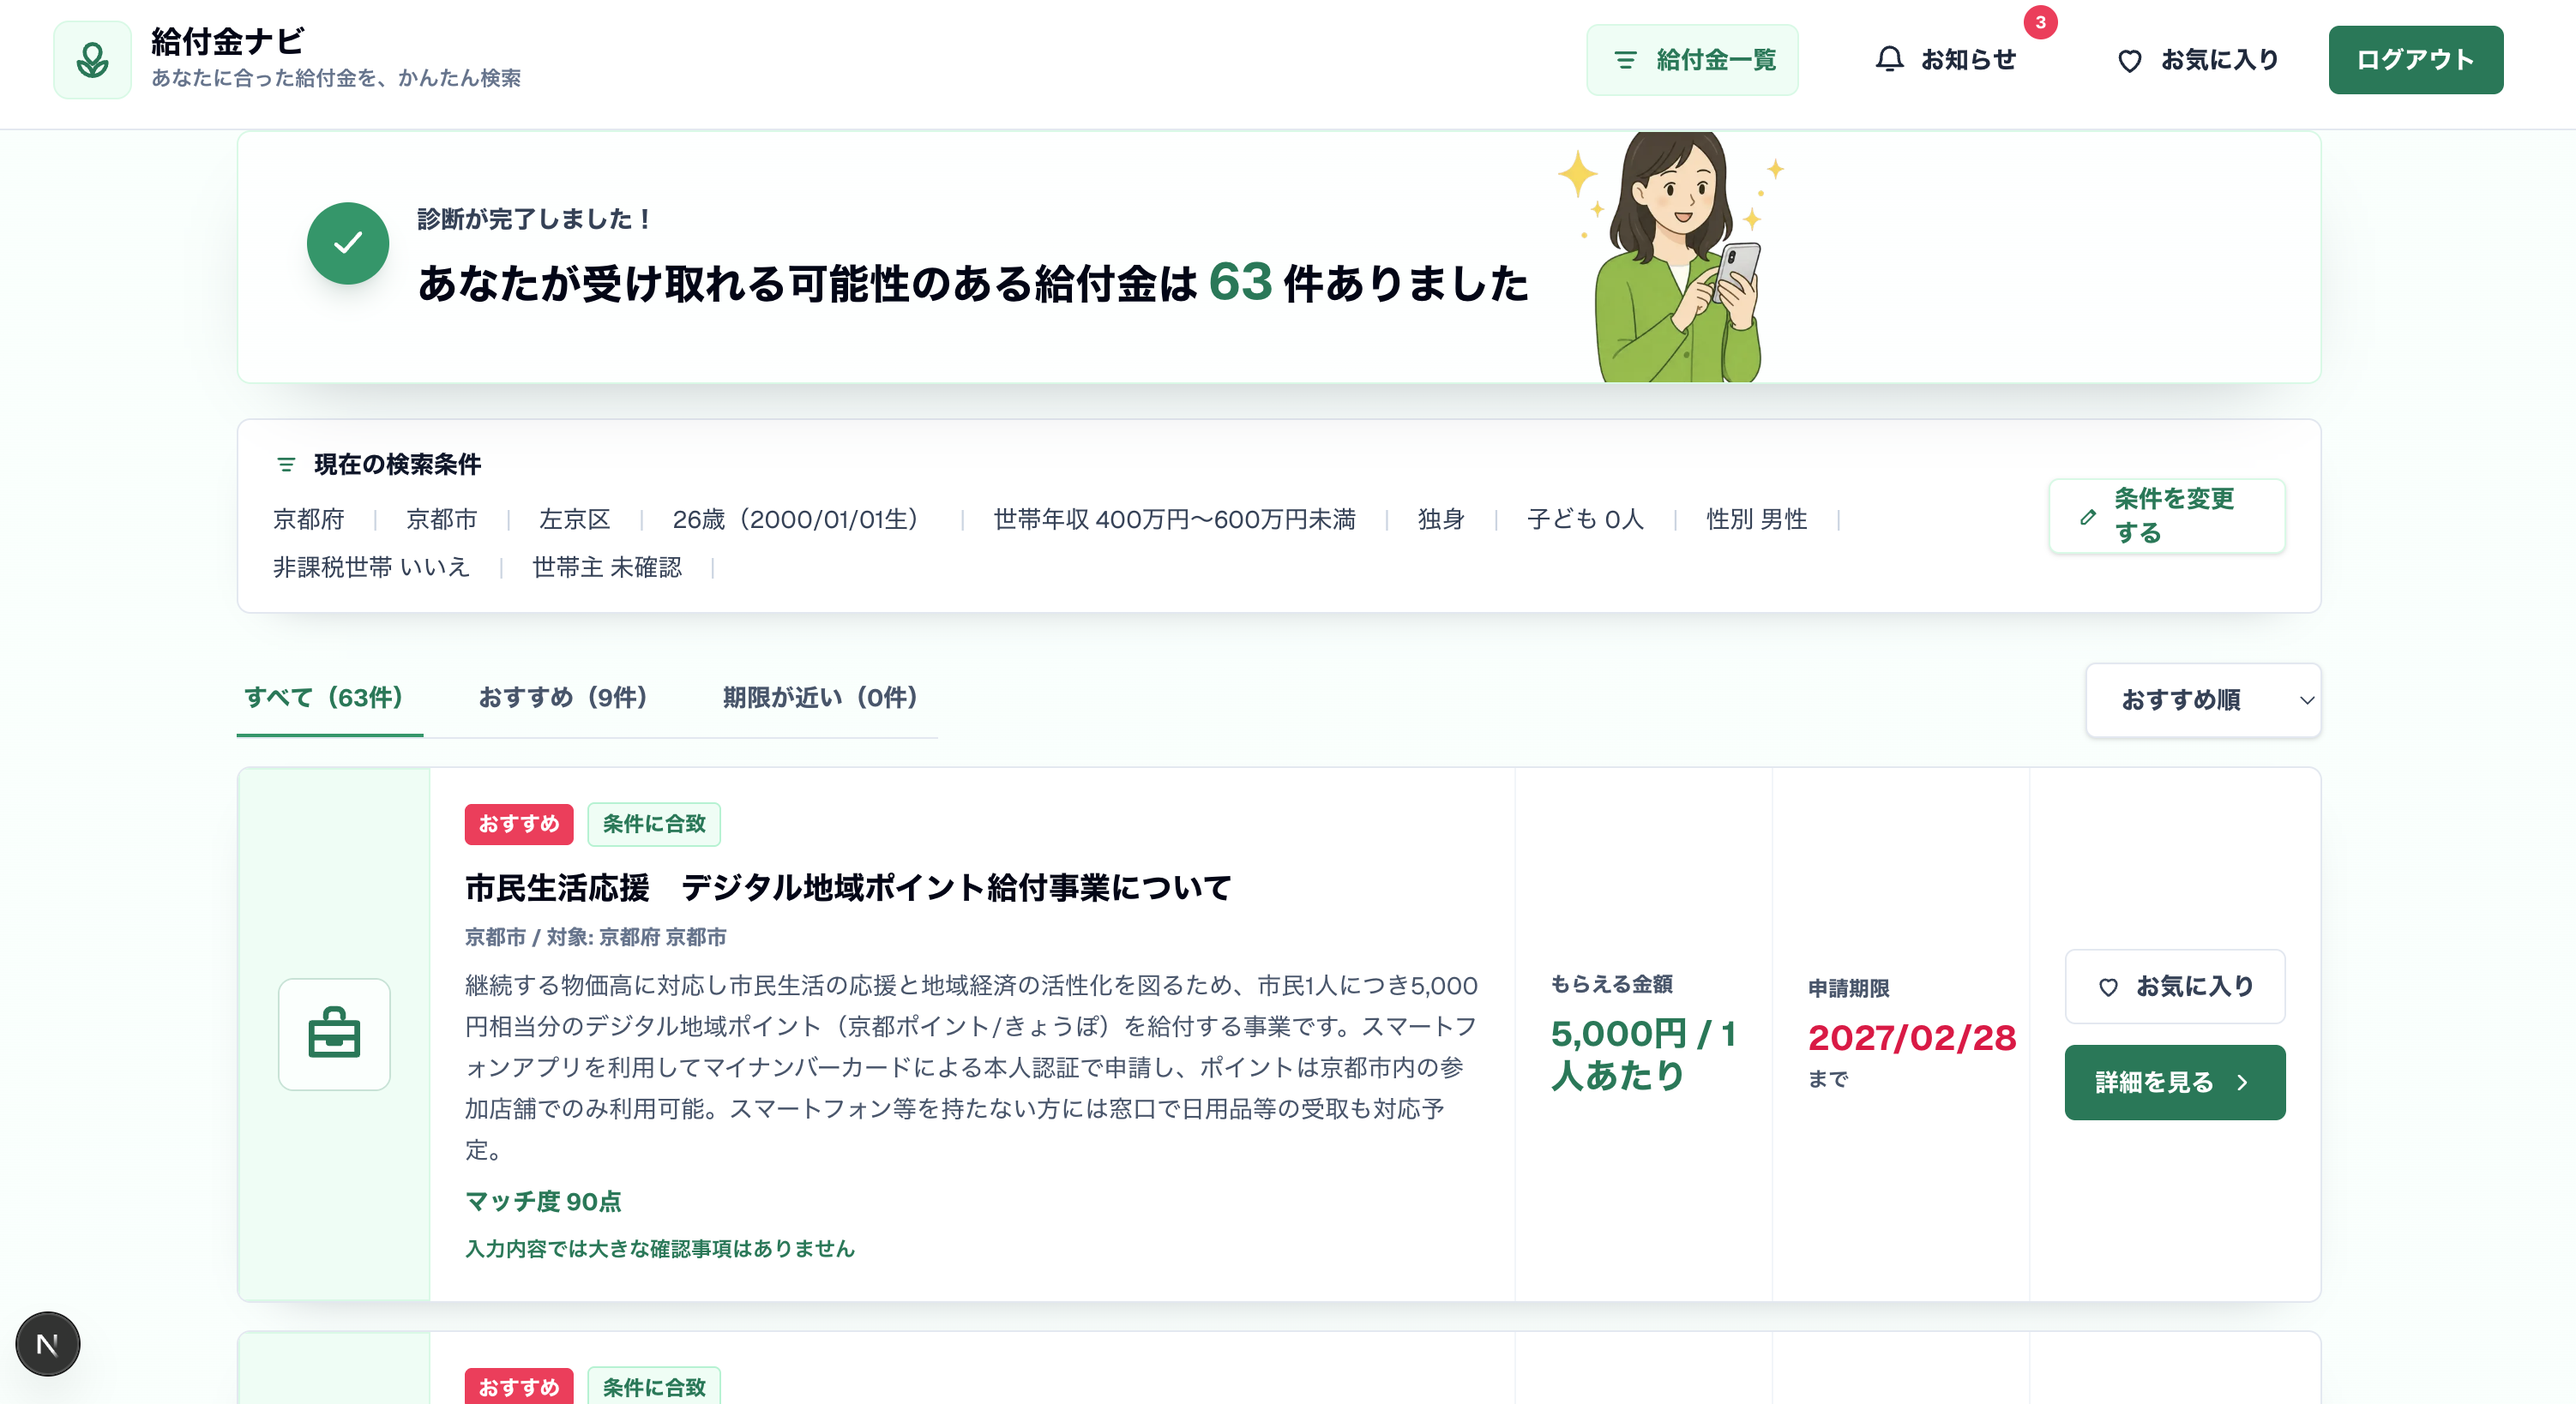
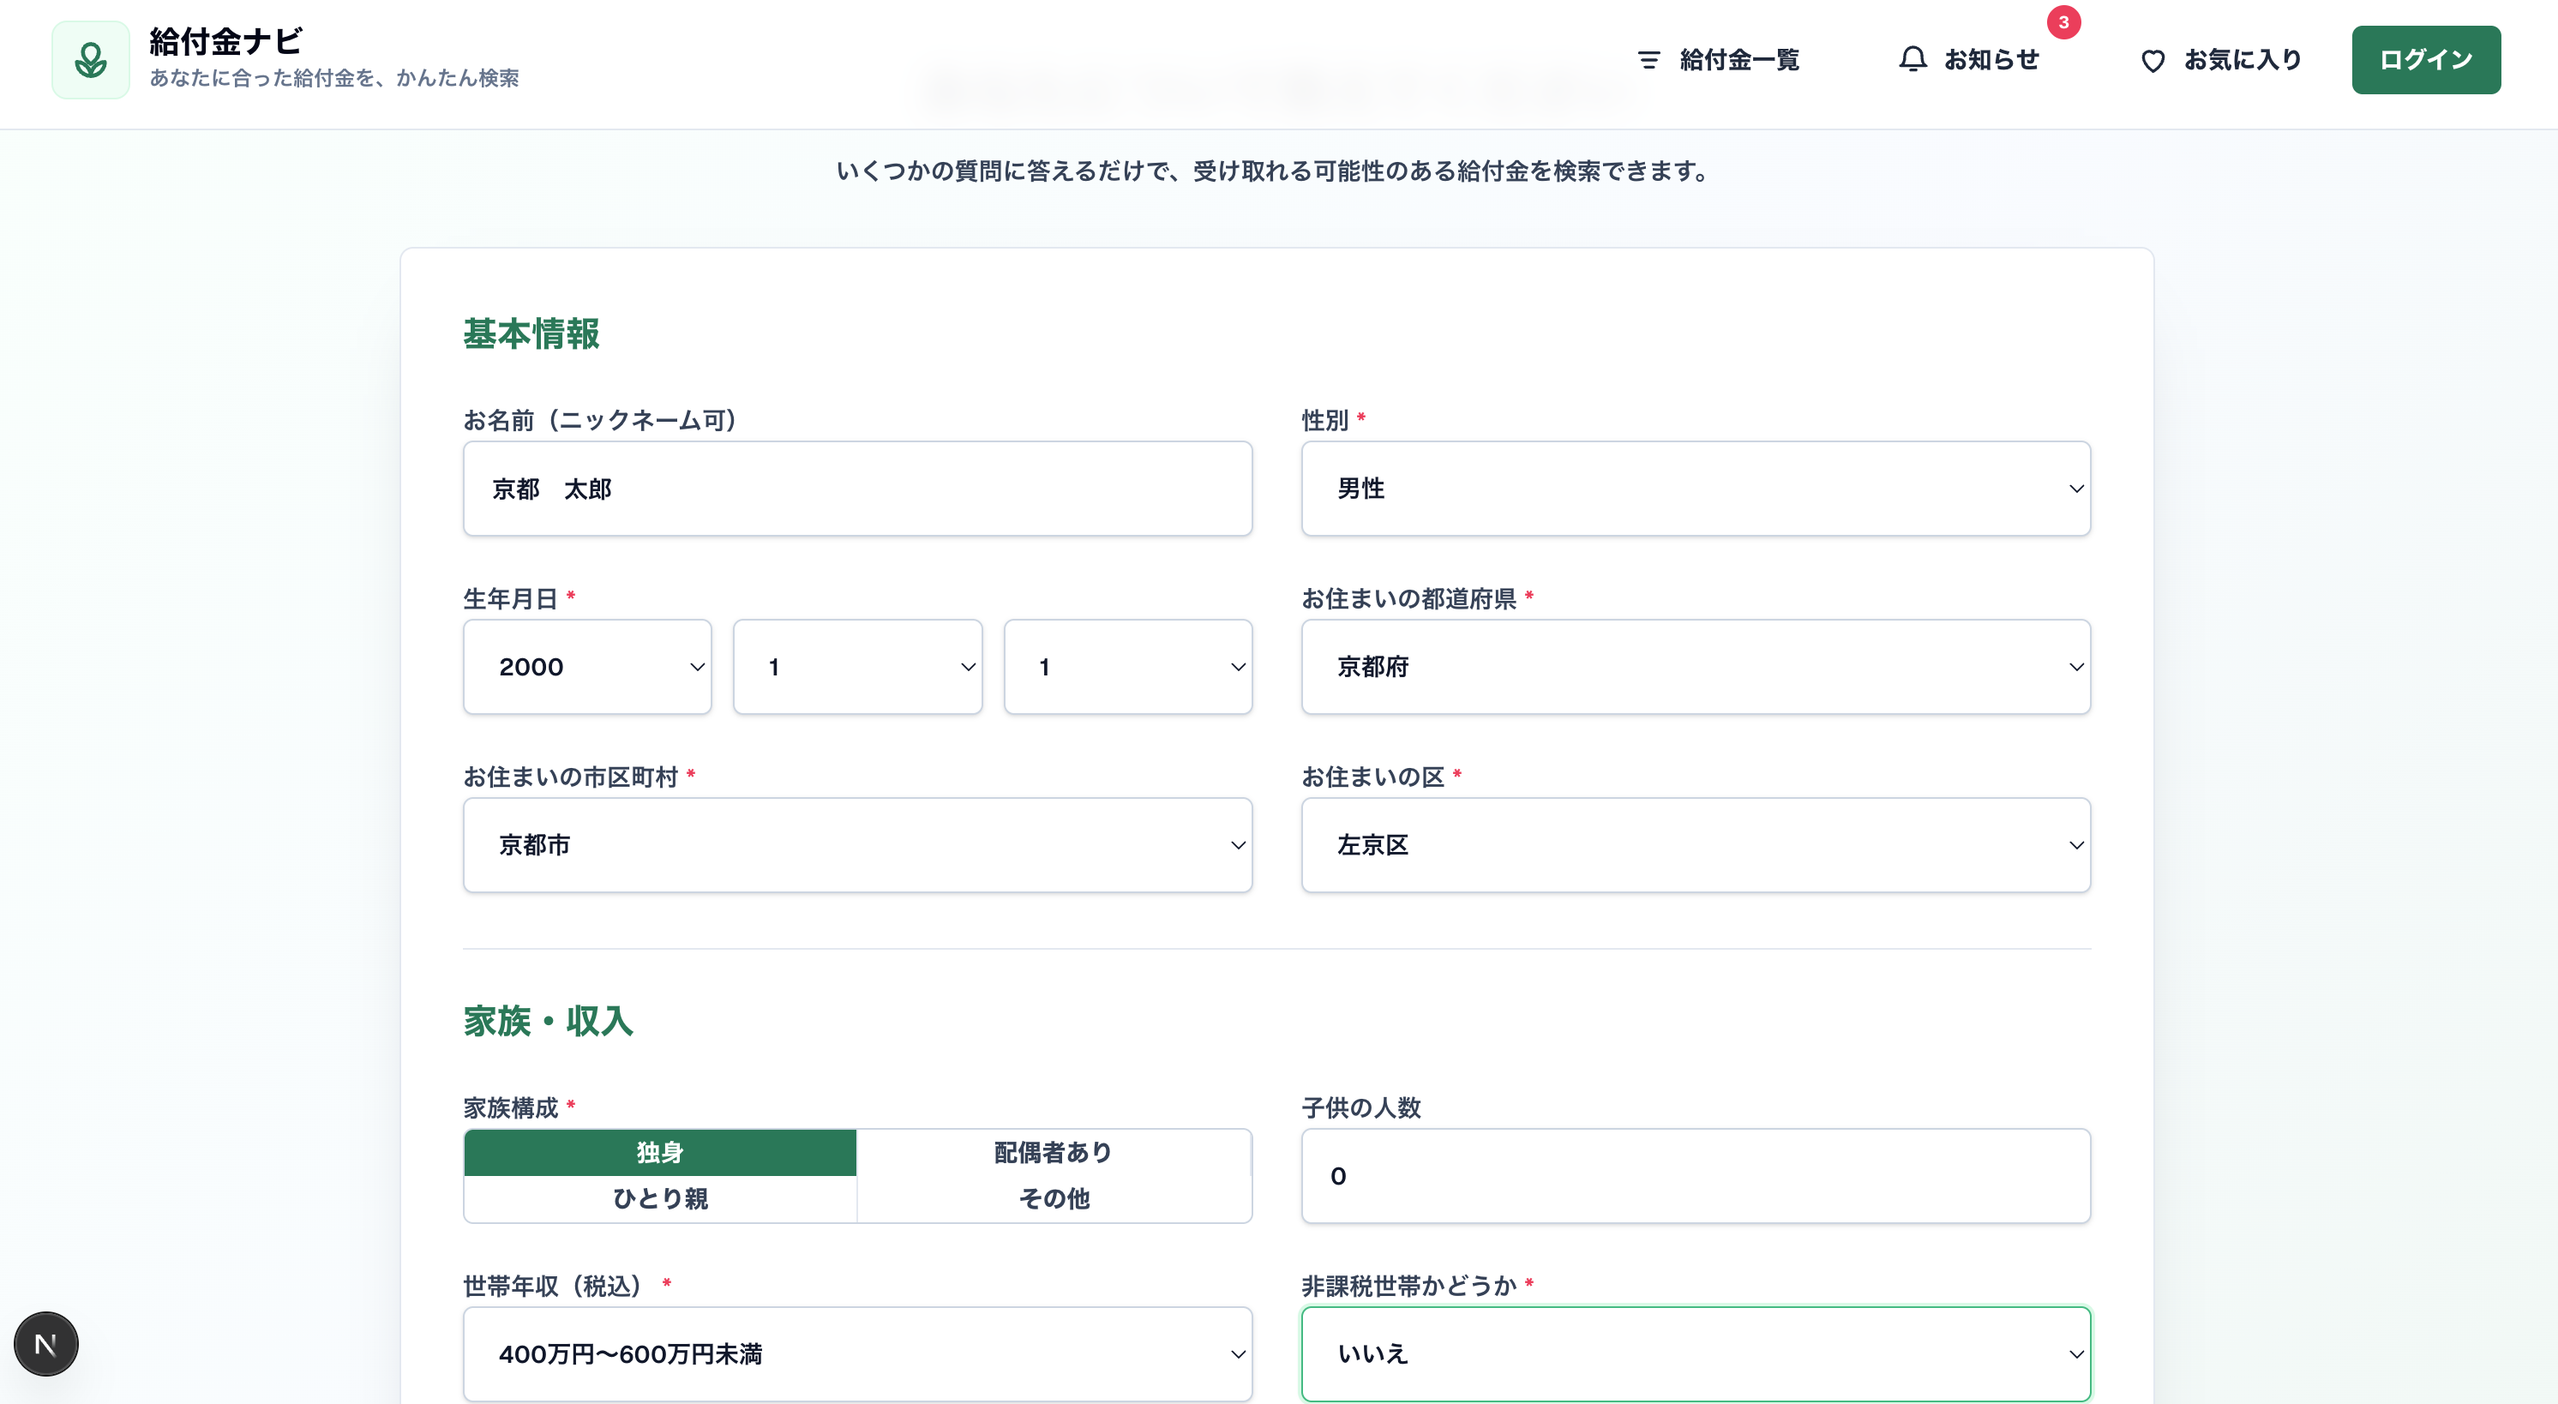
images 変更

diff --git a/README.md b/README.md
@@ -1,6 +1,8 @@
-# 🚀 京都市 支援金・補助金 自動収集＆閲覧アプリ
+# 🚀 給付金ナビ （支援金・補助金 自動収集＆閲覧アプリ）
 
-本プロジェクト（給付金ナビ）は、京都市の公式ホームページ等から「給付金・助成金・支援金・補助金」に関する情報を自動で収集し、**ユーザーのプロフィール（世帯構成、所得、就労状況など）の条件に合致する制度を的確に判定・表示する**Webアプリケーションです。
+本プロジェクト「給付金ナビ」は、自治体の公式ホームページ等から「給付金・助成金・支援金・補助金」に関する情報を自動で収集し、**ユーザーのプロフィール（世帯構成、所得、就労状況など）の条件に合致する制度のみを的確に判定・表示する**Webアプリケーションです。
+
+現在は開発期間（演習）の都合上、**「京都市」のデータに特化**して稼働させていますが、バックエンドの収集パイプラインは検索クエリの対象ドメインを変更するだけで、**全国のあらゆる自治体に横展開できる拡張性の高い設計**となっています。
 
 ---
 
